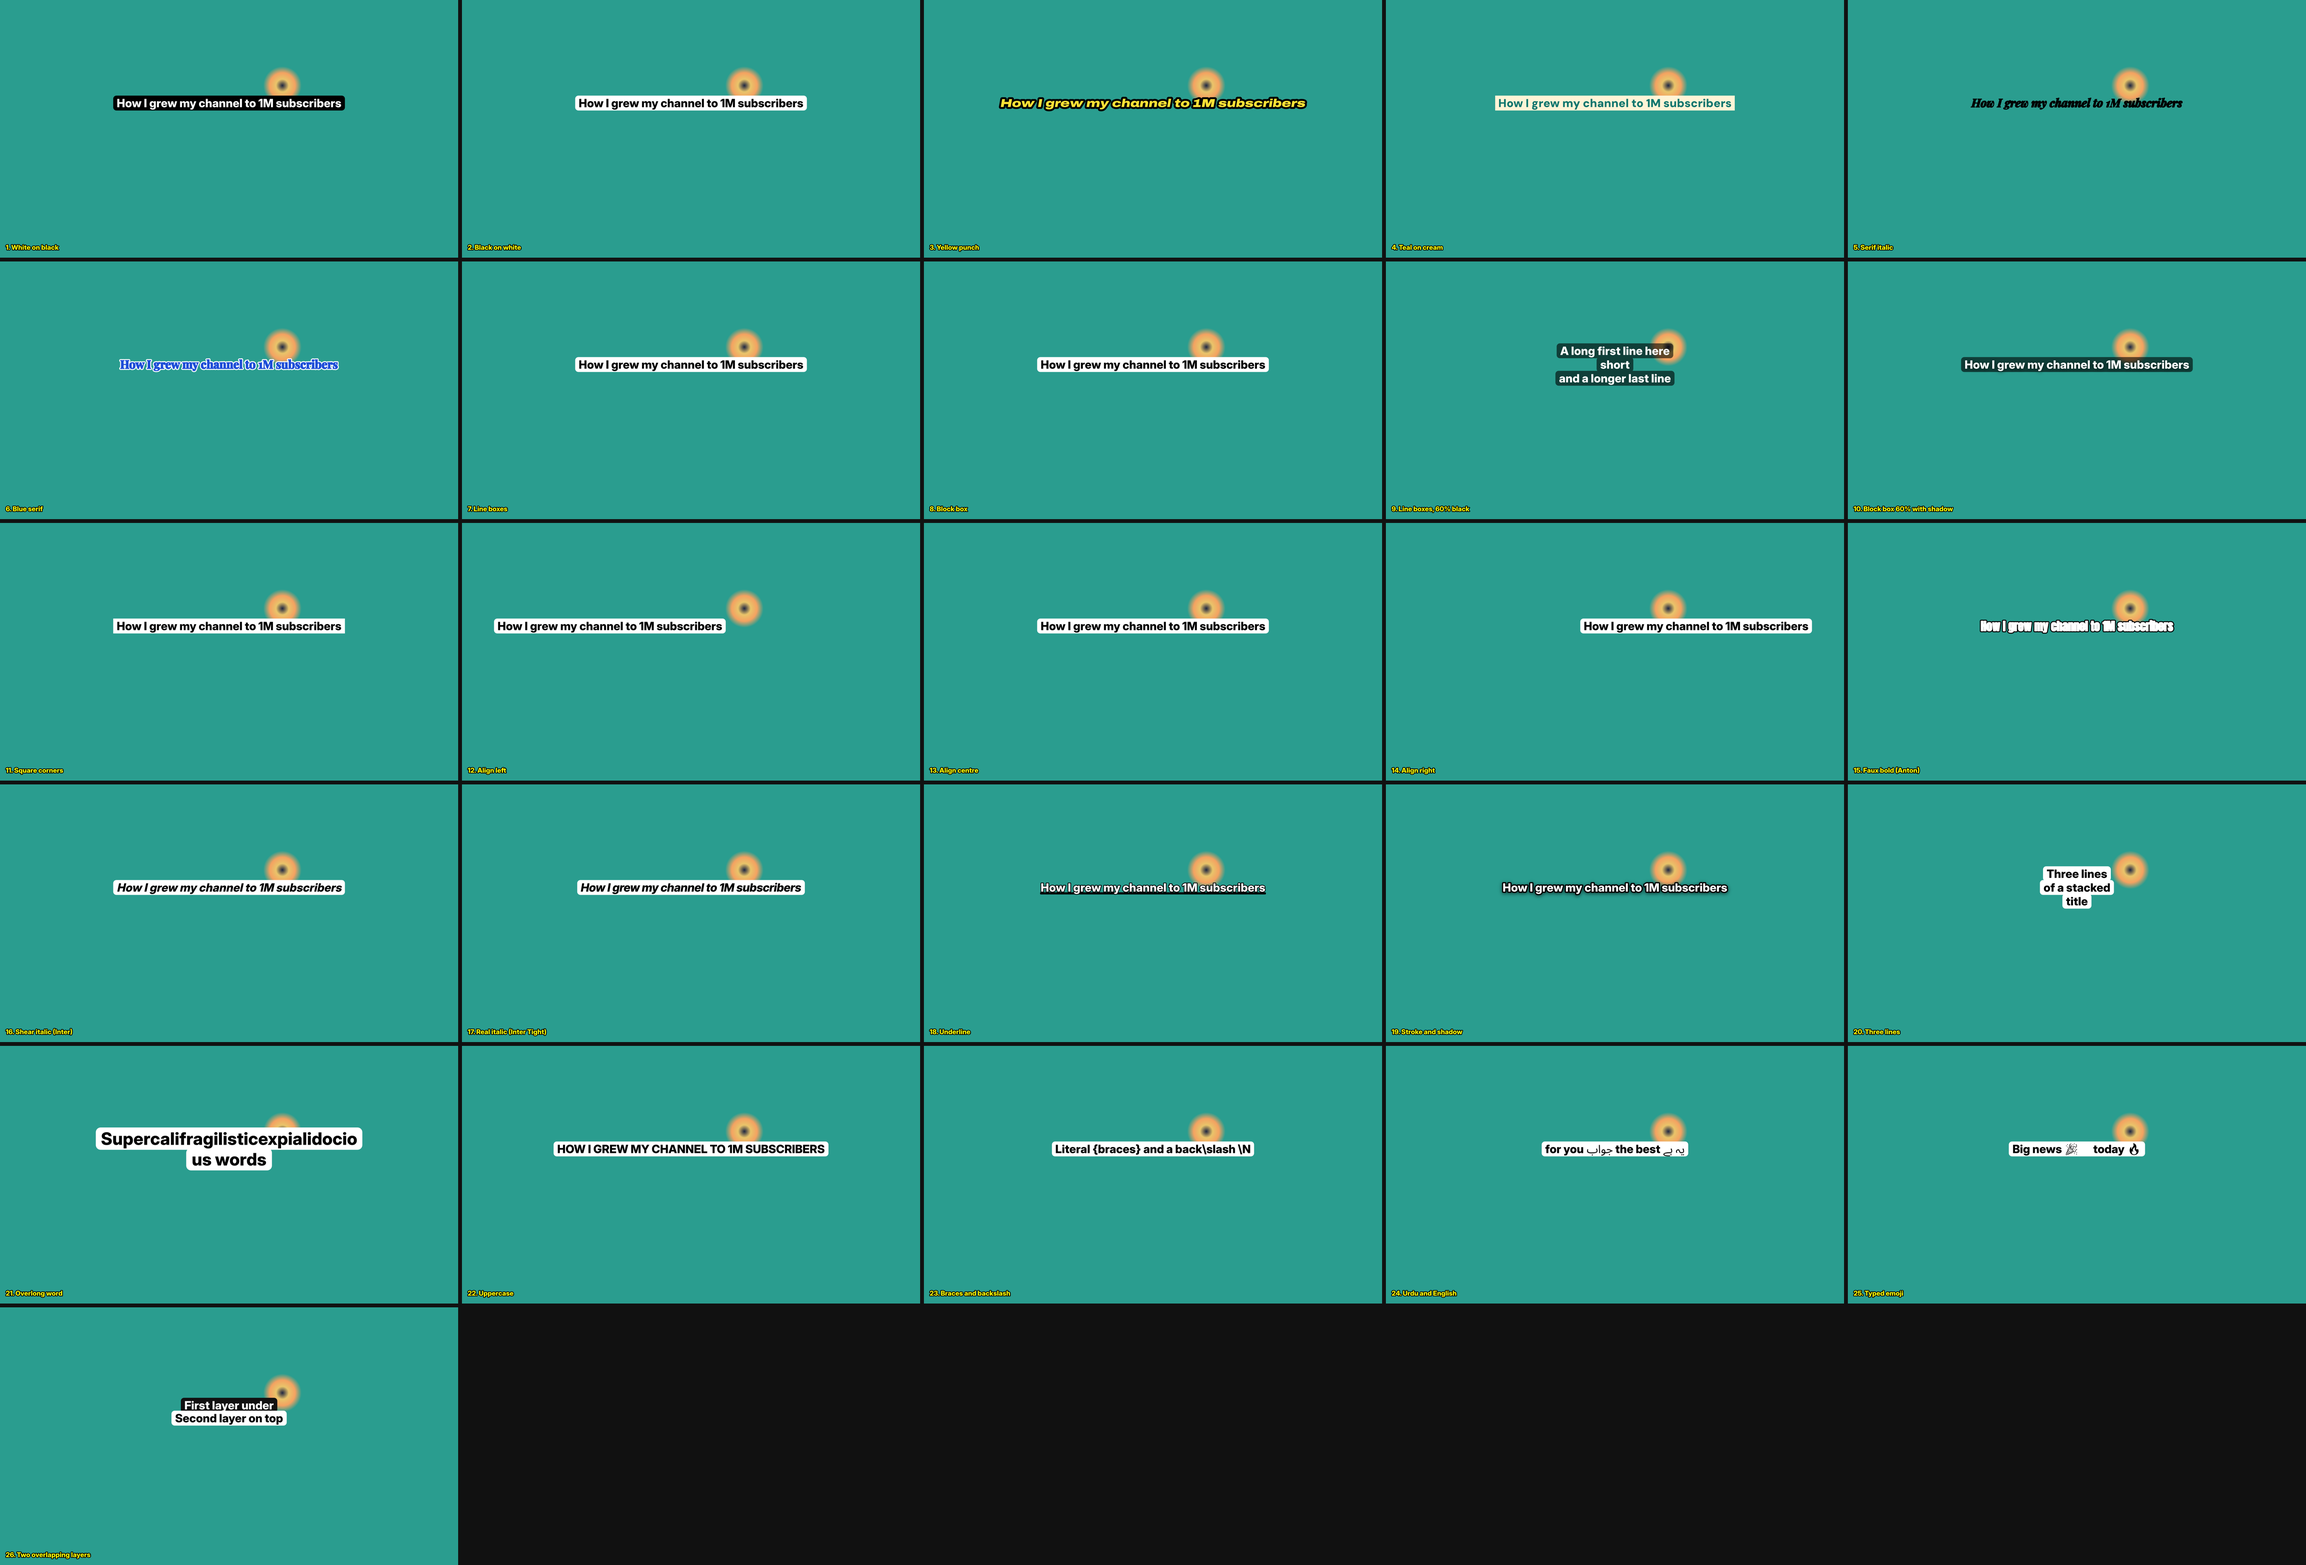
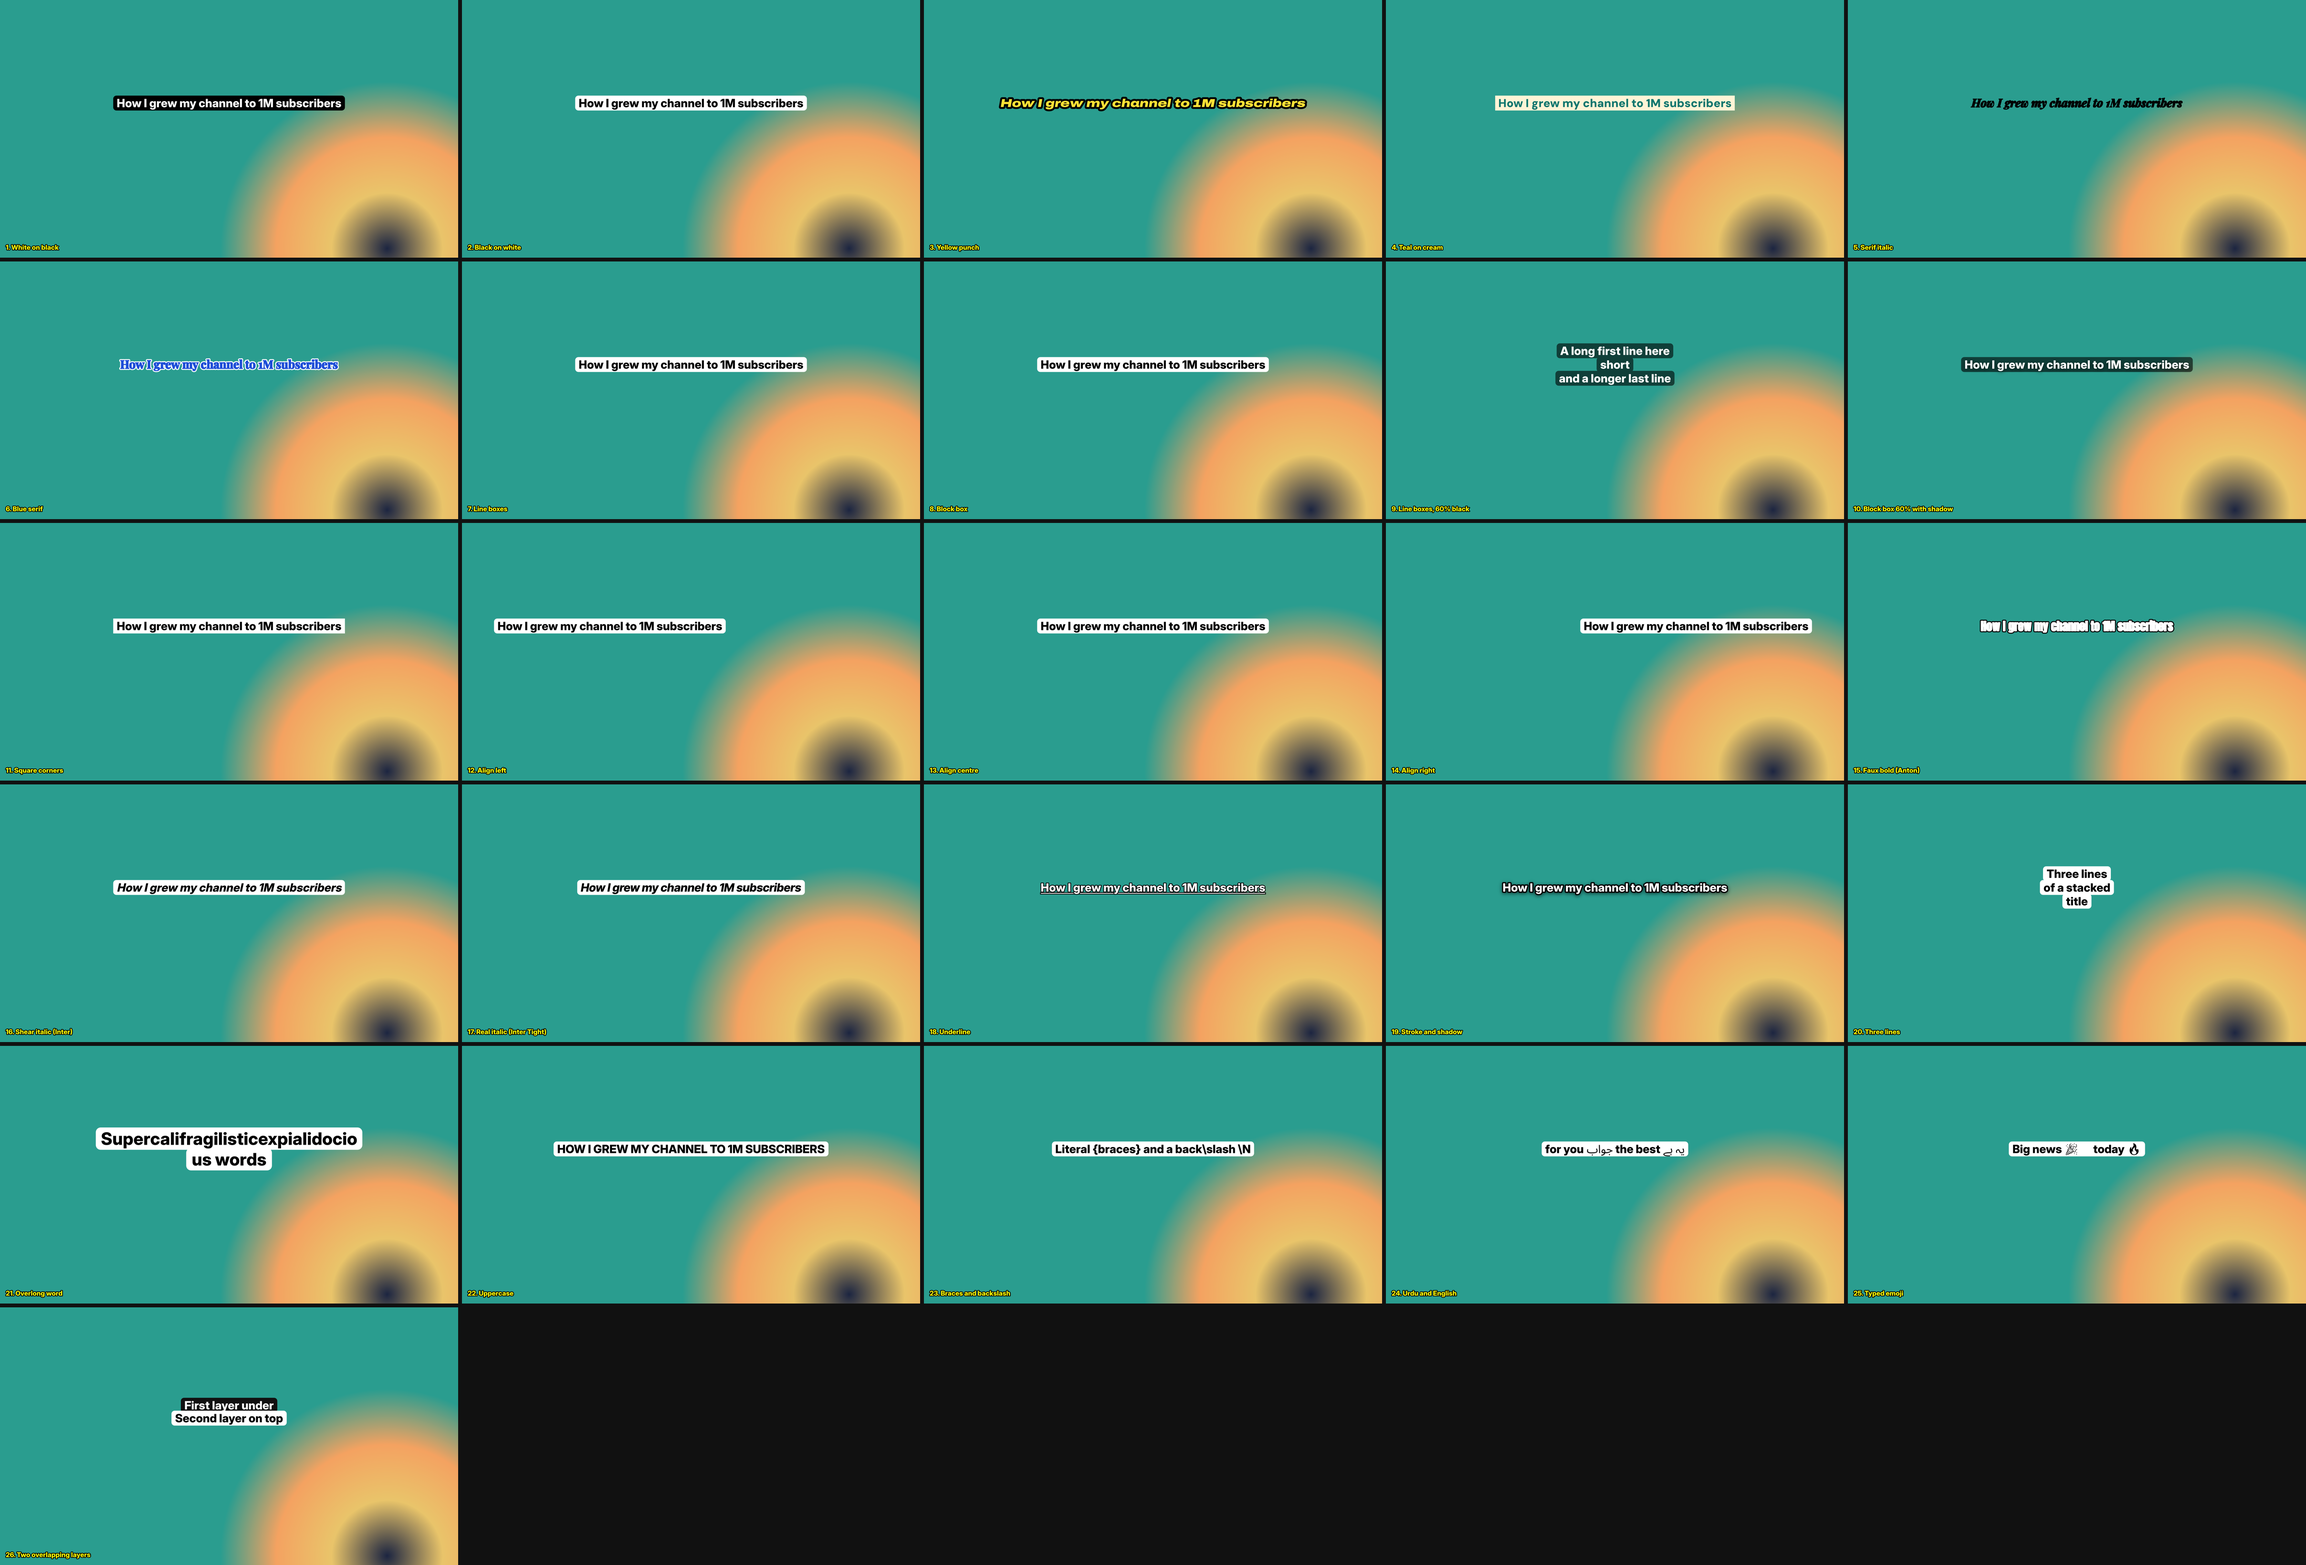
fix(caption-scene): a Text Layer's underline keeps the text colour under a stroke
The outline was a stroke centred on the bar's edge, wider than the bar, so an
underlined, stroked line drew a bar in the stroke colour. The outline is now
its own larger bar under it.

diff --git a/packages/caption-scene/src/text-layer/layout.test.ts b/packages/caption-scene/src/text-layer/layout.test.ts
@@ -235,16 +235,31 @@ describe("bold, italic, underline, stroke and shadow", () => {
 
   test("underline: a bar the line's measured advance wide below the baseline, under the text", () => {
     const result = layout(make("ab cd\nlonger line", { underline: true, background: null, stroke: STROKE, shadow: DEFAULT_TEXT_SHADOW }));
-    const bars = shapes(result.pieces, "underline");
+    const bars = shapes(result.pieces, "underline:");
     expect(bars).toHaveLength(2);
     const bar = boxesOf(bars[0]!)[0]!;
     expect(bar.x1).toBeCloseTo(result.lines[0]!.x1, 6);
     expect(bar.x2 - bar.x1).toBeCloseTo(5 * CHAR, 6);
     expect(bar.y1).toBeGreaterThan(result.lines[0]!.baselineY);
     expect(bars[0]!.fill).toEqual({ colour: DEFAULT_TITLE_STYLE.color });
-    expect(bars[0]!.stroke).toEqual({ widthPx: 8, colour: "#000000" });
-    expect(bars[0]!.shadows).toHaveLength(1);
+    expect(bars[0]!.stroke).toBeUndefined();
+    expect(bars[0]!.shadows).toBeUndefined();
     expect(bars[0]!.z).toBeLessThan(texts(result.pieces)[0]!.z);
+    // The outline is a larger bar under it, the stroke's width all round, so the bar keeps the text colour.
+    const edges = shapes(result.pieces, "underline-edge:");
+    expect(edges).toHaveLength(2);
+    const edge = boxesOf(edges[0]!)[0]!;
+    expect(edge.x1).toBeCloseTo(bar.x1 - 4, 6);
+    expect(edge.y2).toBeCloseTo(bar.y2 + 4, 6);
+    expect(edges[0]!.fill).toEqual({ colour: "#000000" });
+    expect(edges[0]!.shadows).toHaveLength(1);
+    expect(result.pieces.indexOf(edges[0]!)).toBeLessThan(result.pieces.indexOf(bars[0]!));
+  });
+
+  test("underline without a stroke: one bar, which carries the shadow", () => {
+    const result = layout(make("ab cd", { underline: true, background: null, stroke: null, shadow: DEFAULT_TEXT_SHADOW }));
+    expect(shapes(result.pieces, "underline-edge:")).toHaveLength(0);
+    expect(shapes(result.pieces, "underline:")[0]!.shadows).toHaveLength(1);
   });
 });
 

diff --git a/packages/caption-scene/src/text-layer/layout.ts b/packages/caption-scene/src/text-layer/layout.ts
@@ -152,16 +152,19 @@ export function layoutTextLayer(layer: TextLayerInput, canvas: TextLayerCanvas, 
     }
     if (style.underline) {
       const thickness = UNDERLINE_THICKNESS_EM * size;
-      pieces.push({
-        ...base(`underline:${index}`, Z.underline),
+      const y = line.baselineY + UNDERLINE_OFFSET_EM * size;
+      const bar = (id: string, grow: number, colour: string, withShadows: boolean): ShapePiece => ({
+        ...base(`${id}:${index}`, Z.underline),
         kind: "shape",
-        track: { x: at(line.x1), y: at(line.baselineY + UNDERLINE_OFFSET_EM * size) },
-        path: rectPath(0, 0, line.x2 - line.x1, thickness),
-        fill: { colour: style.color },
-        // A shape's stroke is centred on its edge: twice the text's outline reaches as far outside.
-        ...(userStroke ? { stroke: { widthPx: 2 * userStroke.widthPx, colour: userStroke.colour } } : {}),
-        ...(shadows.length > 0 ? { shadows } : {}),
+        track: { x: at(line.x1 - grow), y: at(y - grow) },
+        path: rectPath(0, 0, line.x2 - line.x1 + 2 * grow, thickness + 2 * grow),
+        fill: { colour },
+        ...(withShadows && shadows.length > 0 ? { shadows } : {}),
       });
+      // The outline is its own bar, the stroke's width larger all round and under the bar: a stroke
+      // on the bar itself is centred on its edge and would cover a bar thinner than the stroke.
+      if (userStroke) pieces.push(bar("underline-edge", userStroke.widthPx, userStroke.colour, true));
+      pieces.push(bar("underline", 0, style.color, !userStroke));
     }
   }
   return { pieces, frame, lines };
